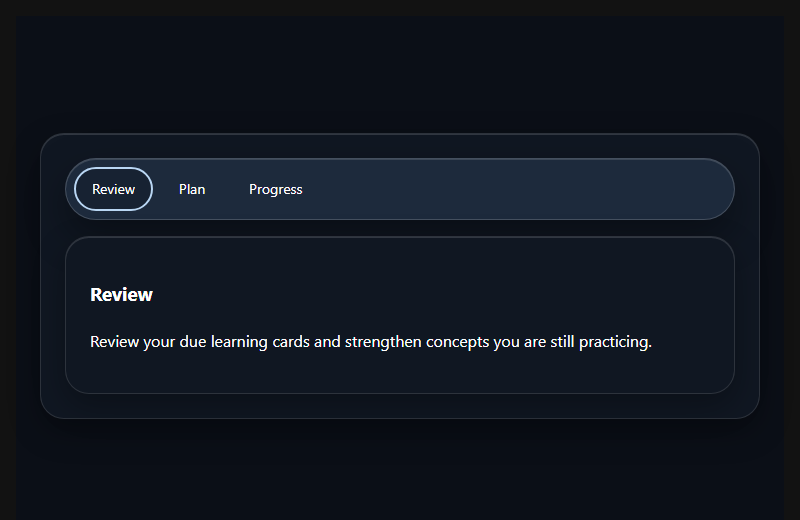
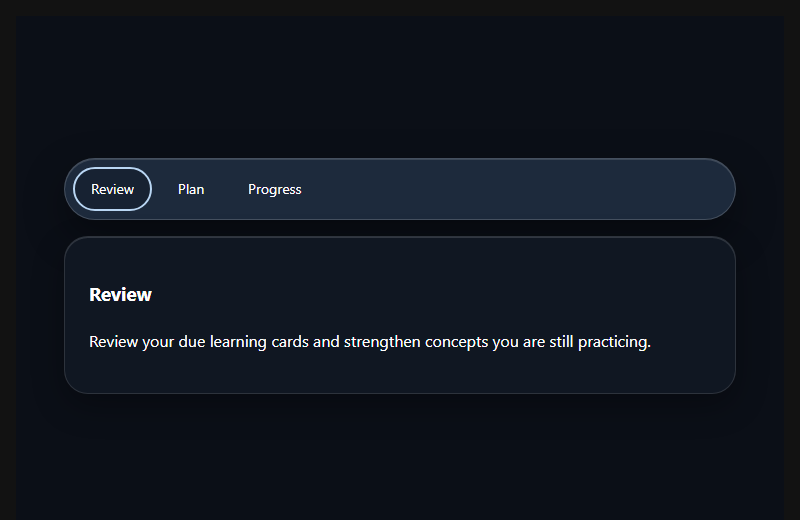
fix(ui): prevent Tabs ARIA overrides and nested glass motion

diff --git a/packages/ui/src/tabs.tsx b/packages/ui/src/tabs.tsx
@@ -16,18 +16,34 @@ export function Tabs({ className, ...props }: TabsProps) {
 /** Use aria-label or aria-labelledby to name each tablist. */
 export type TabsListProps = Omit<
   ComponentPropsWithoutRef<typeof TabsPrimitive.List>,
-  "asChild" | "role" | "aria-orientation"
+  "asChild" | "role" | "aria-orientation" | "aria-hidden" | "hidden"
 > & {
   asChild?: never;
   role?: never;
   "aria-orientation"?: never;
+  "aria-hidden"?: never;
+  hidden?: never;
 };
 
 export const TabsList = forwardRef<HTMLDivElement, TabsListProps>(function TabsList(
-  { asChild, role, "aria-orientation": ariaOrientation, className, ...props },
+  {
+    asChild,
+    role,
+    "aria-orientation": ariaOrientation,
+    "aria-hidden": ariaHidden,
+    hidden,
+    className,
+    ...props
+  },
   ref,
 ) {
-  if (asChild !== undefined || role !== undefined || ariaOrientation !== undefined) {
+  if (
+    asChild !== undefined ||
+    role !== undefined ||
+    ariaOrientation !== undefined ||
+    ariaHidden !== undefined ||
+    hidden !== undefined
+  ) {
     throw new Error("TabsList must render a native tablist.");
   }
   return (
@@ -42,7 +58,15 @@ export const TabsList = forwardRef<HTMLDivElement, TabsListProps>(function TabsL
 /** Retain native button and Radix-owned tab state, ARIA IDs and roving focus. */
 export type TabsTriggerProps = Omit<
   ComponentPropsWithoutRef<typeof TabsPrimitive.Trigger>,
-  "asChild" | "type" | "role" | "id" | "tabIndex" | "aria-selected" | "aria-controls"
+  | "asChild"
+  | "type"
+  | "role"
+  | "id"
+  | "tabIndex"
+  | "aria-selected"
+  | "aria-controls"
+  | "aria-hidden"
+  | "hidden"
 > & {
   asChild?: never;
   type?: never;
@@ -51,6 +75,8 @@ export type TabsTriggerProps = Omit<
   tabIndex?: never;
   "aria-selected"?: never;
   "aria-controls"?: never;
+  "aria-hidden"?: never;
+  hidden?: never;
 };
 
 export const TabsTrigger = forwardRef<HTMLButtonElement, TabsTriggerProps>(function TabsTrigger(
@@ -62,6 +88,8 @@ export const TabsTrigger = forwardRef<HTMLButtonElement, TabsTriggerProps>(funct
     tabIndex,
     "aria-selected": ariaSelected,
     "aria-controls": ariaControls,
+    "aria-hidden": ariaHidden,
+    hidden,
     className,
     ...props
   },
@@ -74,7 +102,9 @@ export const TabsTrigger = forwardRef<HTMLButtonElement, TabsTriggerProps>(funct
     id !== undefined ||
     tabIndex !== undefined ||
     ariaSelected !== undefined ||
-    ariaControls !== undefined
+    ariaControls !== undefined ||
+    ariaHidden !== undefined ||
+    hidden !== undefined
   ) {
     throw new Error("TabsTrigger must render a native button.");
   }
@@ -90,17 +120,29 @@ export const TabsTrigger = forwardRef<HTMLButtonElement, TabsTriggerProps>(funct
 /** A native tabpanel keeps its relationship to its tab, including at high zoom. */
 export type TabsContentProps = Omit<
   ComponentPropsWithoutRef<typeof TabsPrimitive.Content>,
-  "asChild" | "role" | "id" | "tabIndex" | "aria-labelledby"
+  "asChild" | "role" | "id" | "tabIndex" | "aria-labelledby" | "aria-hidden" | "hidden"
 > & {
   asChild?: never;
   role?: never;
   id?: never;
   tabIndex?: never;
   "aria-labelledby"?: never;
+  "aria-hidden"?: never;
+  hidden?: never;
 };
 
 export const TabsContent = forwardRef<HTMLDivElement, TabsContentProps>(function TabsContent(
-  { asChild, role, id, tabIndex, "aria-labelledby": labelledBy, className, ...props },
+  {
+    asChild,
+    role,
+    id,
+    tabIndex,
+    "aria-labelledby": labelledBy,
+    "aria-hidden": ariaHidden,
+    hidden,
+    className,
+    ...props
+  },
   ref,
 ) {
   if (
@@ -108,7 +150,9 @@ export const TabsContent = forwardRef<HTMLDivElement, TabsContentProps>(function
     role !== undefined ||
     id !== undefined ||
     tabIndex !== undefined ||
-    labelledBy !== undefined
+    labelledBy !== undefined ||
+    ariaHidden !== undefined ||
+    hidden !== undefined
   ) {
     throw new Error("TabsContent must render a native tab panel.");
   }

diff --git a/packages/ui/src/tabs.test.ts b/packages/ui/src/tabs.test.ts
@@ -62,6 +62,29 @@ describe("Tabs semantic contract", () => {
     ).toThrow("TabsList must render a native tablist.");
   });
 
+  it("rejects hidden or aria-hidden overrides that could remove active tabs from accessibility", () => {
+    for (const unsafe of [{ "aria-hidden": true }, { hidden: true }]) {
+      const list = { "aria-label": "Study sections", ...unsafe } as unknown as TabsListProps;
+      expect(() =>
+        renderToStaticMarkup(
+          createElement(Tabs, { defaultValue: "review" }, createElement(TabsList, list)),
+        ),
+      ).toThrow("TabsList must render a native tablist.");
+      const trigger = { value: "review", ...unsafe } as unknown as TabsTriggerProps;
+      expect(() =>
+        renderToStaticMarkup(
+          createElement(Tabs, { defaultValue: "review" }, createElement(TabsTrigger, trigger)),
+        ),
+      ).toThrow("TabsTrigger must render a native button.");
+      const content = { value: "review", ...unsafe } as unknown as TabsContentProps;
+      expect(() =>
+        renderToStaticMarkup(
+          createElement(Tabs, { defaultValue: "review" }, createElement(TabsContent, content)),
+        ),
+      ).toThrow("TabsContent must render a native tab panel.");
+    }
+  });
+
   it("rejects replacing the associated tab panel with a slotted element", () => {
     const invalid = { value: "review", asChild: true } as unknown as TabsContentProps;
     expect(() =>

diff --git a/tests/ui/tabs.spec.ts b/tests/ui/tabs.spec.ts
@@ -155,7 +155,34 @@ test("full glass, opaque and high contrast settings honor their separate renderi
   }
 });
 
-test("reduced and off motion remove tab background transitions", async ({ page }) => {
+test("full-transparency tablist has no blurred ancestor and preserves one live glass layer", async ({
+  page,
+}) => {
+  await page.goto(story("full-transparency"));
+  const list = page.getByRole("tablist");
+  await expect(page.locator("html")).toHaveAttribute("data-transparency", "full");
+  const nested = await list.evaluate((node) => {
+    let parent = node.parentElement;
+    while (parent) {
+      if (getComputedStyle(parent).backdropFilter !== "none") return parent.className;
+      parent = parent.parentElement;
+    }
+    return null;
+  });
+  expect(nested, "nested blurred ancestor of floating tablist").toBeNull();
+});
+
+test("even full-motion Tabs never animates background-color", async ({ page }) => {
+  await page.goto(story("default"));
+  await page.locator("html").evaluate((root) => {
+    root.dataset.motion = "full";
+  });
+  await expect(page.getByRole("tab", { name: "Review" })).toHaveCSS("transition-duration", "0s");
+});
+
+test("reduced and off motion keep tab colors static with visible keyboard focus", async ({
+  page,
+}) => {
   for (const [name, setting] of [
     ["reduced-motion", "reduced"],
     ["off-motion", "off"],

diff --git a/.storybook/preview.tsx b/.storybook/preview.tsx
@@ -10,9 +10,19 @@ interface FrameProps {
   contrast: string;
   motion: string;
   textScale: string;
+  /** A flat frame is required when the story renders its own glass layer. */
+  stageSurface: "reading" | "flat";
 }
 
-function StoryFrame({ children, theme, transparency, contrast, motion, textScale }: FrameProps) {
+function StoryFrame({
+  children,
+  theme,
+  transparency,
+  contrast,
+  motion,
+  textScale,
+  stageSurface,
+}: FrameProps) {
   useEffect(() => {
     const root = document.documentElement;
     root.dataset.theme = theme;
@@ -30,7 +40,13 @@ function StoryFrame({ children, theme, transparency, contrast, motion, textScale
 
   return (
     <main className="storybook-stage">
-      <div className="glass-reading storybook-surface">{children}</div>
+      <div
+        className={
+          stageSurface === "flat" ? "storybook-surface" : "glass-reading storybook-surface"
+        }
+      >
+        {children}
+      </div>
     </main>
   );
 }
@@ -70,6 +86,7 @@ const preview: Preview = {
         contrast={String(context.globals.contrast)}
         motion={String(context.globals.motion)}
         textScale={String(context.globals.textScale)}
+        stageSurface={context.parameters.stageSurface === "flat" ? "flat" : "reading"}
       >
         <Story />
       </StoryFrame>

diff --git a/packages/ui/src/glass.css b/packages/ui/src/glass.css
@@ -519,7 +519,6 @@
   white-space: normal;
   text-align: center;
   cursor: pointer;
-  transition: background-color var(--motion-base) ease-out;
 }
 .lyceum-tabs__trigger[data-state="active"] {
   background: var(--surface-raised-solid);
@@ -552,15 +551,6 @@
   -webkit-backdrop-filter: none;
   backdrop-filter: none;
   line-height: var(--line-height-reading);
-}
-:root[data-motion="reduced"] .lyceum-tabs__trigger,
-:root[data-motion="off"] .lyceum-tabs__trigger {
-  transition: none;
-}
-@media (prefers-reduced-motion: reduce) {
-  :root:not([data-motion="full"]) .lyceum-tabs__trigger {
-    transition: none;
-  }
 }
 @media (forced-colors: active) {
   .lyceum-tabs__trigger {

diff --git a/packages/ui/src/tabs.stories.tsx b/packages/ui/src/tabs.stories.tsx
@@ -88,7 +88,8 @@ const meta = {
   title: "Primitives/Tabs",
   component: TabsDemo,
   tags: ["autodocs"],
-  parameters: { a11y: { test: "error" } },
+  // The list itself is blurred glass; never put it inside another blurred Storybook surface.
+  parameters: { a11y: { test: "error" }, stageSurface: "flat" },
 } satisfies Meta<typeof TabsDemo>;
 
 export default meta;

diff --git a/docs/STATUS.md b/docs/STATUS.md
@@ -5,7 +5,7 @@ Shared memory for humans and agents. Newest entries first. Keep entries short. M
 ## 2026-11-23 · M0-003 · Dialog #8 merged; separate accessible Tabs slice underway
 Owner explicitly approved [Dialog PR #8](https://github.com/hyvvs/lyceum/pull/8), accepting zero formal reviews and the documented nonblocking screenshot-script checkout caveat. The exact reviewed head `c2c9b3741b5f258de0e404223c9c04463ba7e5b7` passed [hosted run 45104893659](https://github.com/hyvvs/lyceum/actions/runs/45104893659) (Verify 64 Linux units/28 browser, Dependency audit, Secret scan); after a guarded readiness and squash merge, `main` advanced to **`296826ed83e8e8d1ba9eb5a17611cd7090db2bb6`**. Local main was fast-forwarded cleanly; exact-head [post-merge run 45106227100](https://github.com/hyvvs/lyceum/actions/runs/45106227100) completed **SUCCESS** for all three required gates (including 28 Chromium tests). Previous dated entries below reflect their historical pre-merge state.
 
-The next independent `m0/ui-tabs` slice introduces the four approved Radix-style `Tabs`, `TabsList`, `TabsTrigger` and `TabsContent` wrappers, pinned MIT `@radix-ui/react-tabs` from the project's established Radix family, tokenized floating list and accessible reading panel. New unit/browser tests target native roles and ID associations, default and controlled selection, manual/automatic activation, RTL/vertical Arrow keys, Home/End, disabled tabs, native non-submit buttons, focus/roving Tab, 200% text at 320×256 and axe. Storybook includes dark/light/high contrast, full/reduced/off transparency, reduced/off motion, hover/focus, disabled, empty/loading/error, RTL and long labels; [real screenshot QA instructions](qa/tabs/README.md) distinguish actual blur from opaque fallback without claiming final app aesthetic. New Tabs PR requires hosted gates, independent UX/architecture/security review **and separate human merge approval**.
+The next independent [draft Tabs PR #9](https://github.com/hyvvs/lyceum/pull/9) on `m0/ui-tabs` introduces the four approved Radix-style `Tabs`, `TabsList`, `TabsTrigger` and `TabsContent` wrappers, pinned MIT `@radix-ui/react-tabs` from the project's established Radix family, tokenized floating list and accessible reading panel. New unit/browser tests target native roles and ID associations, default and controlled selection, manual/automatic activation, RTL/vertical Arrow keys, Home/End, disabled tabs, native non-submit buttons, focus/roving Tab, 200% text at 320×256 and axe. Storybook includes dark/light/high contrast, full/reduced/off transparency, reduced/off motion, hover/focus, disabled, empty/loading/error, RTL and long labels; [real screenshot QA instructions](qa/tabs/README.md) distinguish actual blur from opaque fallback without claiming final app aesthetic. Initial independent UX and architecture reviewers identified nested blur in the Storybook frame, a noncompliant background-color transition and possible accessibility-hidden tab overrides. Follow-up regressions first reproduced all three; fixes make Tabs stories use an unblurred outer frame, remove the transition entirely and prohibit `hidden`/`aria-hidden` on structural tab nodes. Final-head hosted gates and independent follow-up/security reviews remain required, as does **separate human merge approval**.
 
 **Visual acceptance remains non-negotiable:** keep M0-003 **[~]** through remaining Select, Toast, VisuallyHidden and FocusScope. M0-017 (after M0-003) must deliver genuinely translucent frosted glass, tinted layered panels, floating pill navigation/icon dock and real full-glass plus fallback screenshots; M0-018 (after M0-017) specifies spring motion/reduced-motion; M0-019 (after M0-017) licensed/original atmospheric backdrops and pixel contrast sampling; M0-020 (after M0-017 **and M0-005**) supported-WebView measured performance. All follow docs/18 and accepted ADR-0008, not generic opaque dashboards. Do not start M0-004 or any downstream milestone in this slice.
 

diff --git a/docs/qa/tabs/README.md b/docs/qa/tabs/README.md
@@ -1,6 +1,6 @@
 # M0-003: accessible Tabs — real Storybook screenshot evidence
 
-These seven images come from actual local Chromium rendering of `m0/ui-tabs` Storybook, not generated mockups. The capture script checks theme, transparency, root text scale and absence of page horizontal overflow before saving **viewport-only** PNGs. It checks that the full-transparency story has an actual `backdrop-filter` and that opaque states disable it.
+These seven images come from actual local Chromium rendering of `m0/ui-tabs` Storybook, not generated mockups. The capture script checks theme, transparency, root text scale and absence of page horizontal overflow before saving **viewport-only** PNGs. It checks that the full-transparency story has an actual `backdrop-filter` and that opaque states disable it. The Tabs story uses a **flat, unblurred Storybook frame** so the live-glass tablist is never nested inside another blurred layer.
 
 | Story | Image | Viewport and key setting |
 | --- | --- | --- |
